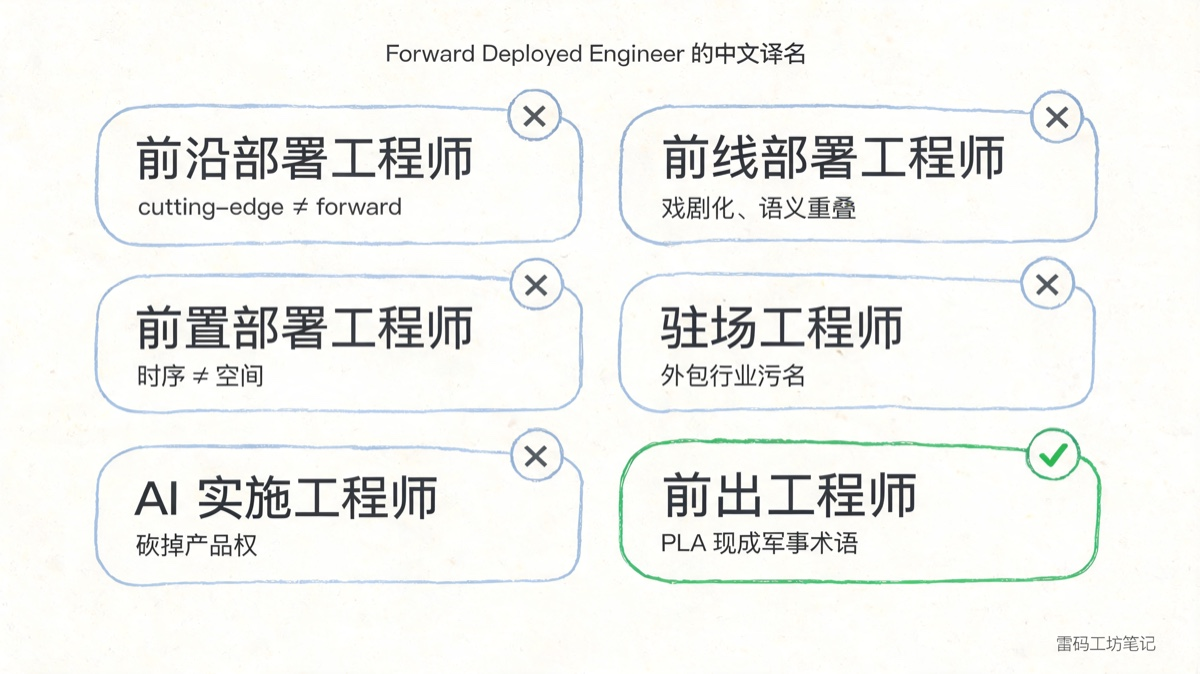
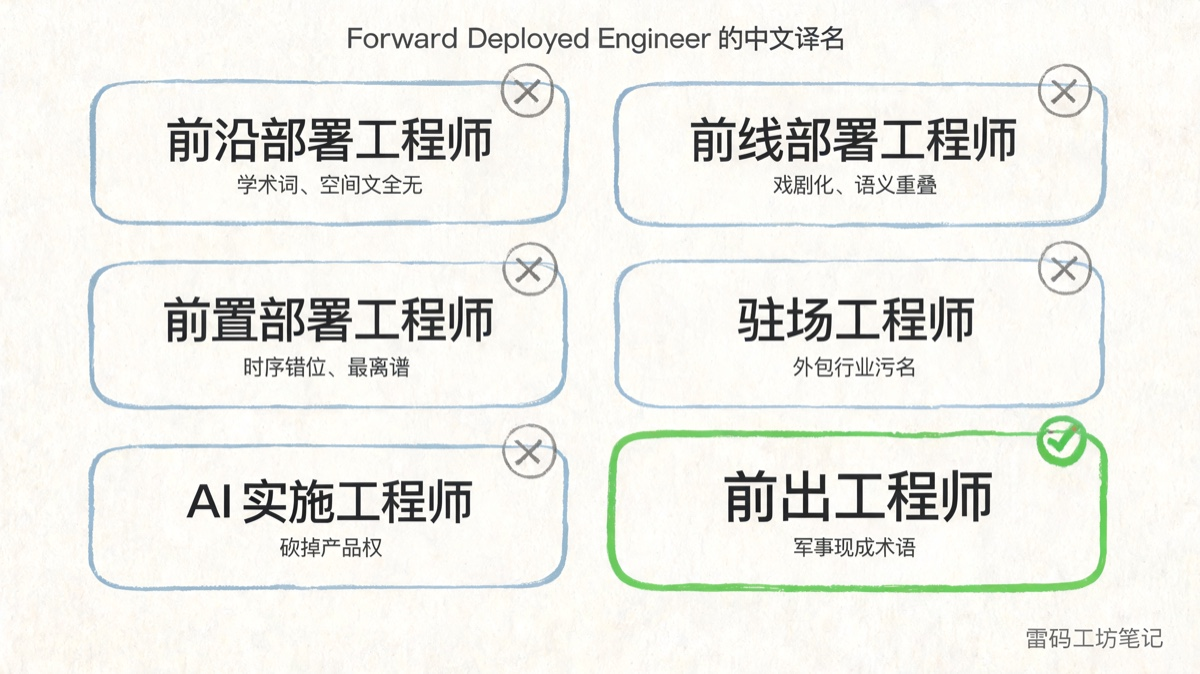
fix+add: 06/09 重抽（纯中文、修 ✗/✓）+ 新增 10/11 两张插图
修复：
- 06 译名诊断网格：纯中文 subtitle（删 cutting-edge ≠ forward），
  AI 实施工程师 ✗ 标记修正（之前误标 ✓）
- 09 四路径汇聚：所有 figure 标签和 annotation 改为纯中文
  （在校生 / 资深研发 / 售前实施 / 产品业务 + 邮件挖创业团队 /
  最短路径 / 最现实最难 / 甲方机会更大 / 企业落地负责人）

新增：
- 10 Echo-Delta 双人组（插第一节 Sankar 段后）：Palantir 总部 →
  客户现场嵌入工程师 + 分析师双人组，FDE 模式原型视觉化
- 11 中国 vs 硅谷对比（插第七节）：4 周 vs 12 周起步，下方磷绿
  punchline「前出工程师在中国的单位价值更高」

全部 Notion 风、JPEG q90、≤ 240KB、WeChat 兼容。

文章现共 11 张图：cover + 4 真实截图 + 6 张 Notion 手绘插图 +
头像，每节都有视觉节奏点。

Changed region(s): [[0.0617, 0.0312, 0.925, 0.9036], [0.8325, 0.9347, 0.9867, 0.9659]]

diff --git a/fde-qianchu-engineer/prompts/10-echo-delta.md b/fde-qianchu-engineer/prompts/10-echo-delta.md
@@ -1,0 +1,70 @@
+# Image 10 — Echo-Delta 双人组（Palantir 起源模式）
+
+**Insert at**: 第一节中间，Palantir Echo-Delta 段落后
+**Output**: `/Users/andy/Desktop/articles/fde-qianchu-engineer/image/10-echo-delta.jpg`
+**Aspect**: 16:9
+**Model**: Seedream 5.0 (doubao-seedream-5-0-260128)
+
+## Visual
+
+A Notion-style editorial flat illustration on cream paper background (#FAF7F0).
+
+The canvas is divided visually into two zones connected by a wobbly hand-drawn dotted line:
+
+**Left zone (smaller, ~30% width)**: A simple stylized building labeled 「Palantir 总部」(ink-black #0E1116, small label below the building). The building is a rounded rectangle outline with 4-6 little windows, drawn in wobbly hand-drawn ink lines.
+
+**Connecting dotted line (phosphor-green #1AB87C)** runs from the HQ building to the right zone, with a small phosphor-green arrow at the end pointing right.
+
+**Right zone (larger, ~60% width)**: A larger rounded rectangle outline labeled 「客户现场」(ink-black) at the top. Inside this rectangle sit TWO stylized human silhouettes side by side, facing each other slightly:
+
+- **Left figure (the engineer role)**: An engineer silhouette holding a laptop, with a small phosphor-green code-bracket icon `</>` floating near them. Label below the figure (Chinese ONLY, no English): 「工程师」(ink-black, small). Sub-tag: 「写产品代码」(graphite #3A4151, smaller).
+
+- **Right figure (the analyst role)**: An analyst silhouette holding a clipboard or paper, with a small lightbulb or magnifying-glass icon floating near them. Label below the figure (Chinese ONLY, no English): 「分析师」(ink-black, small). Sub-tag: 「挖客户需求」(graphite, smaller).
+
+Between the two figures: a small phosphor-green hand-drawn double-arrow ↔ or a small heart-shape connection symbol indicating "they work as a pair".
+
+**Top-left small section label**: 「Palantir 的 Echo-Delta 双人组打法」(graphite #3A4151).
+
+**Bottom-right watermark**: 「雷码工坊笔记」(graphite, ~60% opacity, ~6% width, sans-serif, no icon no border).
+
+## Style
+
+- Notion editorial flat illustration
+- Hand-drawn imperfect outlines (wobbly ink lines)
+- Stylized human silhouettes — NO realistic faces
+- Flat color fills, no gradients, no 3D, no glossy
+- Light paper grain texture
+- Composition: HQ on left, client site on right with two paired figures inside
+- 40% whitespace breathing room
+
+## Color Palette (HARD CONSTRAINT — Leima Workshop Brand v2)
+
+ONLY:
+- Background: cream #FAF7F0
+- Outlines / figure silhouettes / main labels: ink-black #0E1116
+- Connecting dotted line / arrow / code icon / pair-connection symbol: phosphor-green #1AB87C
+- Sub-tags / secondary text: graphite #3A4151
+- Building windows / dotted grid detail: fog-blue #9CB4CC
+- Soft shadows under figures: brick-gray #6E6259 (sparingly)
+
+**FORBIDDEN**: warm orange/coral, purple, neon, blue-teal tech, pure black, saturated reds/yellows.
+
+## Text Constraints
+
+CRITICAL: Chinese glyphs must render correctly — no garbled CJK, proper strokes. All Chinese in clean sans-serif (similar to PingFang SC).
+
+EXACT TEXT (no English in body except company name "Palantir" and the top label's "Echo-Delta" reference):
+- Left building label: 「Palantir 总部」
+- Right container label: 「客户现场」
+- Left figure: 「工程师」+ subtag 「写产品代码」
+- Right figure: 「分析师」+ subtag 「挖客户需求」
+- Top label: 「Palantir 的 Echo-Delta 双人组打法」
+- Watermark: 「雷码工坊笔记」
+
+The Greek role names "Delta" and "Echo" appear ONLY ONCE in the top label as part of the phrase "Echo-Delta". They DO NOT appear next to the two figures. The figures are labeled only in Chinese 「工程师」 and 「分析师」.
+
+NO additional text. No code snippets. No long sentences.
+
+## Mood
+
+Conceptual, educational, slightly historical. Reads like an "explainer" illustration in a thoughtful tech publication. The visual story tells: "headquarters dispatches a pair (engineer + analyst) to live at the client site".

diff --git a/fde-qianchu-engineer/prompts/11-china-vs-silicon-valley.md b/fde-qianchu-engineer/prompts/11-china-vs-silicon-valley.md
@@ -1,0 +1,69 @@
+# Image 11 — 中国 vs 硅谷 FDE 落地周期对比
+
+**Insert at**: 第七节中段（"同样一个 agent 落地需求..." 段落后）
+**Output**: `/Users/andy/Desktop/articles/fde-qianchu-engineer/image/11-china-vs-sv.jpg`
+**Aspect**: 16:9
+**Model**: Seedream 5.0 (doubao-seedream-5-0-260128)
+
+## Visual
+
+A Notion-style editorial flat illustration on cream paper background (#FAF7F0). Symmetric LEFT vs RIGHT comparison layout.
+
+**Top center label**: 「同一个 Agent 落地任务的耗时差异」(graphite #3A4151, small sans-serif).
+
+A vertical dotted divider line (fog-blue #9CB4CC) runs down the middle of the canvas, separating the two zones.
+
+**Left zone — 硅谷客户**:
+- Top label: 「硅谷客户」(ink-black #0E1116, sans-serif).
+- A simple stylized client building (rounded rectangle, clean and orderly, fewer lines) with a single streamlined data flow icon next to it (a clean arrow or pipe).
+- Below the building: a short horizontal phosphor-green #1AB87C progress bar with "4 周" label inside (white ink-black text on green fill). The bar is intentionally SHORT to visually convey "fast".
+- Sub-tag below: 「流程标准、决策快」(graphite, smaller).
+
+**Right zone — 中国客户**:
+- Top label: 「中国客户」(ink-black, sans-serif, slightly larger to emphasize).
+- A stylized client building (same shape) but surrounded by 3-4 small "complications" icons: a tangled data-arrow knot (representing data silos), a stack of stamped approval documents (representing 决策链), a question mark cloud (representing flow uncertainty).
+- Below the building: a horizontal progress bar (in brick-gray #6E6259 with phosphor-green accent at the start only) that is intentionally LONG — about 3x the width of the left bar — with "12 周起步" label inside.
+- Sub-tag below: 「数据孤岛、流程不标准、决策链长」(graphite, smaller).
+
+**Bottom punchline strip** (centered, spanning full width, slightly lower):
+「这意味着前出工程师在中国的单位价值更高」(ink-black, sans-serif, mid-size, with the words 「单位价值更高」 highlighted in phosphor-green #1AB87C).
+
+**Bottom-right watermark**: 「雷码工坊笔记」(graphite, ~60% opacity, ~6% width, sans-serif, no icon no border).
+
+## Style
+
+- Notion editorial flat illustration
+- Hand-drawn imperfect outlines (wobbly ink lines)
+- Flat color fills, no gradients, no 3D
+- Light paper grain texture
+- Composition: symmetric left/right with clear visual asymmetry in the progress bars (short green vs long gray) to drive the message home
+- 30% whitespace, balanced with content density
+
+## Color Palette (HARD CONSTRAINT — Leima Workshop Brand v2)
+
+ONLY:
+- Background: cream #FAF7F0
+- Outlines / main labels / divider / building lines: ink-black #0E1116 + fog-blue #9CB4CC for divider
+- "Fast" indicator (left progress bar, green accent): phosphor-green #1AB87C
+- Punchline highlight: phosphor-green #1AB87C
+- "Slow" indicator (right progress bar fill) + complication icons: brick-gray #6E6259
+- Sub-tags / secondary text: graphite #3A4151
+
+**FORBIDDEN**: warm orange, purple, neon, blue-teal tech, pure black, saturated reds/yellows.
+
+## Text Constraints
+
+CRITICAL: Chinese glyphs must render correctly — no garbled CJK, proper strokes, proper kerning, no fake-looking radicals.
+
+EXACT TEXT (all Chinese, no English in body):
+- Top label: 「同一个 Agent 落地任务的耗时差异」
+- Left zone: 「硅谷客户」+ 「4 周」+ 「流程标准、决策快」
+- Right zone: 「中国客户」+ 「12 周起步」+ 「数据孤岛、流程不标准、决策链长」
+- Punchline: 「这意味着前出工程师在中国的单位价值更高」
+- Watermark: 「雷码工坊笔记」
+
+The only allowed English token is "Agent" in the top label.
+
+## Mood
+
+Diagnostic, comparison-driven, with a punchy conclusion. The asymmetric progress bars should be the single visual that the reader remembers — 4 周 short green vs 12 周起步 long gray.

diff --git a/fde-qianchu-engineer/prompts/06-translation-grid.md b/fde-qianchu-engineer/prompts/06-translation-grid.md
@@ -9,19 +9,23 @@
 
 A Notion-style editorial flat illustration showing **six rounded-rectangle cards** arranged in a 3×2 grid on a cream paper background (#FAF7F0). Hand-drawn imperfect outlines (slightly wobbly lines), simple geometric shapes, light paper grain texture.
 
-Five cards labeled with the WRONG Chinese translations (each marked with a small red-graphite hand-drawn ✗ in the top-right corner of the card):
+Five cards labeled with the WRONG Chinese translations. EVERY ONE OF THESE FIVE CARDS MUST have a small hand-drawn ✗ (cross / X mark) in brick-gray #6E6259 in the top-right corner — NOT ✓, NOT ✔, NOT a check mark. The ✗ visually signals "wrong translation":
 
-1. 「前沿部署工程师」— small subtitle below: "cutting-edge ≠ forward"
-2. 「前线部署工程师」— small subtitle below: "戏剧化、语义重叠"
-3. 「前置部署工程师」— small subtitle below: "时序 ≠ 空间"
-4. 「驻场工程师」— small subtitle below: "外包行业污名"
-5. 「AI 实施工程师」— small subtitle below: "砍掉产品权"
+1. 「前沿部署工程师」— small subtitle below (Chinese ONLY): 「学术词、空间义全无」
+2. 「前线部署工程师」— small subtitle below: 「戏剧化、语义重叠」
+3. 「前置部署工程师」— small subtitle below: 「时序错位、最离谱」
+4. 「驻场工程师」— small subtitle below: 「外包行业污名」
+5. 「AI 实施工程师」— small subtitle below: 「砍掉产品权」
 
-One card (positioned in the center of the bottom row, slightly larger, surrounded by a phosphor-green #1AB87C hand-drawn highlight box) labeled with the CORRECT translation:
+ONE AND ONLY ONE card carries the ✓ check mark. That card is the CORRECT translation. It is positioned in the center of the bottom row, slightly larger, surrounded by a phosphor-green #1AB87C hand-drawn highlight box:
 
-6. 「前出工程师」— small subtitle below: "PLA 现成军事术语" — with a hand-drawn ✓ in phosphor-green
+6. 「前出工程师」— small subtitle below: 「军事现成术语」 — with a hand-drawn ✓ check mark in phosphor-green in the top-right corner
+
+REPEAT FOR EMPHASIS: EXACTLY 5 cards have ✗ (the 5 wrong translations including AI 实施工程师), EXACTLY 1 card has ✓ (the 前出工程师 card). DO NOT mark any wrong-translation card with ✓. DO NOT mark the 前出工程师 card with ✗.
 
 A small top label: 「Forward Deployed Engineer 的中文译名」(graphite #3A4151, small).
+
+CRITICAL: All 6 card subtitles must be PURE CHINESE — NO English words, NO ≠ symbols, NO Latin abbreviations in subtitles. Only the top label may contain the English phrase "Forward Deployed Engineer".
 
 Bottom-right watermark: 「雷码工坊笔记」(graphite #3A4151, ~60% opacity, ~6% of image width, sans-serif, no icon no border).
 
@@ -48,9 +52,15 @@ ONLY these colors:
 
 ## Text Constraints
 
-CRITICAL: Chinese glyphs must render correctly — no garbled characters, no fake-looking CJK, no broken radicals. All 6 translation labels in clean sans-serif (similar to PingFang SC). Letter spacing tight.
+CRITICAL: Chinese glyphs must render correctly — no garbled characters, no fake-looking CJK, no broken radicals, proper stroke order, kerning correct. All 6 translation labels and all 6 subtitles in clean sans-serif (similar to PingFang SC). Letter spacing tight.
 
 Forbidden: any text beyond the 6 card labels, their subtitles, the top section label, and the bottom-right watermark.
+
+EXACT CHINESE PHRASES (double-check every character):
+- 「前沿部署工程师」「前线部署工程师」「前置部署工程师」「驻场工程师」「AI 实施工程师」「前出工程师」
+- Subtitles: 「学术词、空间义全无」「戏剧化、语义重叠」「时序错位、最离谱」「外包行业污名」「砍掉产品权」「军事现成术语」
+- Top label: 「Forward Deployed Engineer 的中文译名」
+- Watermark: 「雷码工坊笔记」
 
 ## Mood
 

diff --git a/fde-qianchu-engineer/prompts/09-career-paths.md b/fde-qianchu-engineer/prompts/09-career-paths.md
@@ -13,15 +13,15 @@ Layout: cream paper background (#FAF7F0).
 
 The 4 starting figures, arranged on the left side at varying heights (top-left, mid-upper-left, mid-lower-left, bottom-left):
 
-1. **Top-left** — a student silhouette with a backpack and a small graduation cap. Label below: 「在校生 / 应届」(ink-black). The path from this figure to the FDE badge is a **medium-length wobbly line** (phosphor-green #1AB87C dashed). A small floating annotation along the path: 「直接申 Founding 团队」(graphite, tiny).
+1. **Top-left** — a student silhouette with a backpack and a small graduation cap. Label below: 「在校生」(ink-black). The path from this figure to the FDE badge is a **medium-length wobbly line** (phosphor-green #1AB87C dashed). A small floating annotation along the path: 「邮件挖创业团队」(graphite, tiny).
 
-2. **Upper-left** — a developer silhouette holding a laptop. Label: 「3-5 年研发」(ink-black). Path is the **SHORTEST**, drawn in a thicker solid phosphor-green line — implying highest ROI route. Annotation: 「最短路径」(phosphor-green, small bold).
+2. **Upper-left** — a developer silhouette holding a laptop. Label: 「资深研发」(ink-black). Path is the **SHORTEST**, drawn in a thicker solid phosphor-green line — implying highest ROI route. Annotation: 「最短路径」(phosphor-green, small bold).
 
-3. **Lower-left** — a sales/presales silhouette holding a clipboard or briefcase. Label: 「售前 / 实施顾问」(ink-black). Path is the **LONGEST** and curvier, drawn in fog-blue #9CB4CC. Annotation: 「最现实，最难」(graphite, tiny).
+3. **Lower-left** — a sales/presales silhouette holding a clipboard or briefcase. Label: 「售前实施」(ink-black). Path is the **LONGEST** and curvier, drawn in fog-blue #9CB4CC. Annotation: 「最现实最难」(graphite, tiny).
 
-4. **Bottom-left** — a product manager silhouette pointing at a sticky-note board. Label: 「PM / 业务运营」(ink-black). Path is medium-length, drawn in brick-gray #6E6259, but the path SPLITS into TWO destinations: one short branch goes to a smaller separate badge labeled 「企业内部 Agent Owner」(phosphor-green, secondary), and one long branch continues to the main FDE badge. Annotation: 「国内甲方机会更大」(graphite, tiny).
+4. **Bottom-left** — a product manager silhouette pointing at a sticky-note board. Label: 「产品业务」(ink-black). Path is medium-length, drawn in brick-gray #6E6259, but the path SPLITS into TWO destinations: one short branch goes to a smaller separate badge labeled 「企业落地负责人」(phosphor-green, secondary), and one long branch continues to the main FDE badge. Annotation: 「甲方机会更大」(graphite, tiny).
 
-Center-right: a hand-drawn rounded badge labeled 「**前出工程师 · FDE**」 in ink-black sans-serif with a phosphor-green highlight outline. Small star or sparkle decoration above the badge.
+Center-right: a hand-drawn rounded badge labeled 「前出工程师」 in ink-black sans-serif with a phosphor-green highlight outline. Small star or sparkle decoration above the badge.
 
 Top-left small section label: 「想干这行？四类身份的最短路径」(graphite #3A4151).
 
@@ -51,7 +51,17 @@ ONLY:
 
 ## Text Constraints
 
-CRITICAL: Chinese glyphs must render correctly — no garbled CJK. All Chinese in clean sans-serif. No additional text beyond the labels and annotations specified.
+CRITICAL: Chinese glyphs must render correctly — no garbled CJK, proper strokes, proper kerning, no fake-looking radicals. All Chinese in clean sans-serif (similar to PingFang SC). No additional text beyond the labels and annotations specified.
+
+EXACT CHINESE PHRASES (double-check every character — no English, no Latin words in body):
+- Figure labels: 「在校生」「资深研发」「售前实施」「产品业务」
+- Annotations: 「邮件挖创业团队」「最短路径」「最现实最难」「甲方机会更大」
+- Center main badge: 「前出工程师」
+- Secondary badge: 「企业落地负责人」
+- Top section label: 「想干这行？四类身份的最短路径」
+- Watermark: 「雷码工坊笔记」
+
+NO English words in this image except possibly "FDE" if it appears naturally — but prefer all-Chinese rendering.
 
 ## Mood
 

diff --git a/fde-qianchu-engineer/image/image_describe.md b/fde-qianchu-engineer/image/image_describe.md
@@ -19,6 +19,8 @@
 | `07-timeline.jpg` | 第三节末尾 | 横向时间轴：2008 Palantir / 2020 PoC 撞墙 / 2024 五家集体开岗 / 2025 Levie 推文 / 2026 OpenAI DeployCo | 把事件密集的 FDE 简史变成视觉锚点，提升记忆效率 |
 | `08-decision-tree.jpg` | 第四节开头 | 三档客单价 → 三种决策的分流图，中间档磷绿高亮 | 给 SaaS 老板一眼看完的决策树，比表格更直觉 |
 | `09-career-paths.jpg` | 第六节开头 | 四类身份（学生 / 研发 / 售前 / PM）→ 四条不同长度的路径汇聚到「前出工程师」徽章 | 把第六节最长的转型指南视觉化，减缓阅读疲劳 |
+| `10-echo-delta.jpg` | 第一节中段（Sankar 段后） | Palantir 总部 → 客户现场嵌入工程师 + 分析师双人组的概念图 | 把 Palantir Echo-Delta 起源模式视觉化，让读者一图理解 FDE 原型 |
+| `11-china-vs-sv.jpg` | 第七节中段（对比段后） | 左右对比图：硅谷客户 4 周 vs 中国客户 12 周起步，下方磷绿punchline | 把"中国 SaaS 更需要 FDE"论点视觉化，强化国情对比 |
 
 生成方式：4 个 prompt 文件存档在 `../prompts/06-09-*.md`，统一 Notion 编辑器手绘风 + 雷码工坊品牌色 v2（米白底/墨黑线/磷绿强调/雾蓝/砖灰）+ 右下角「雷码工坊笔记」水印 + 16:9 横版。
 